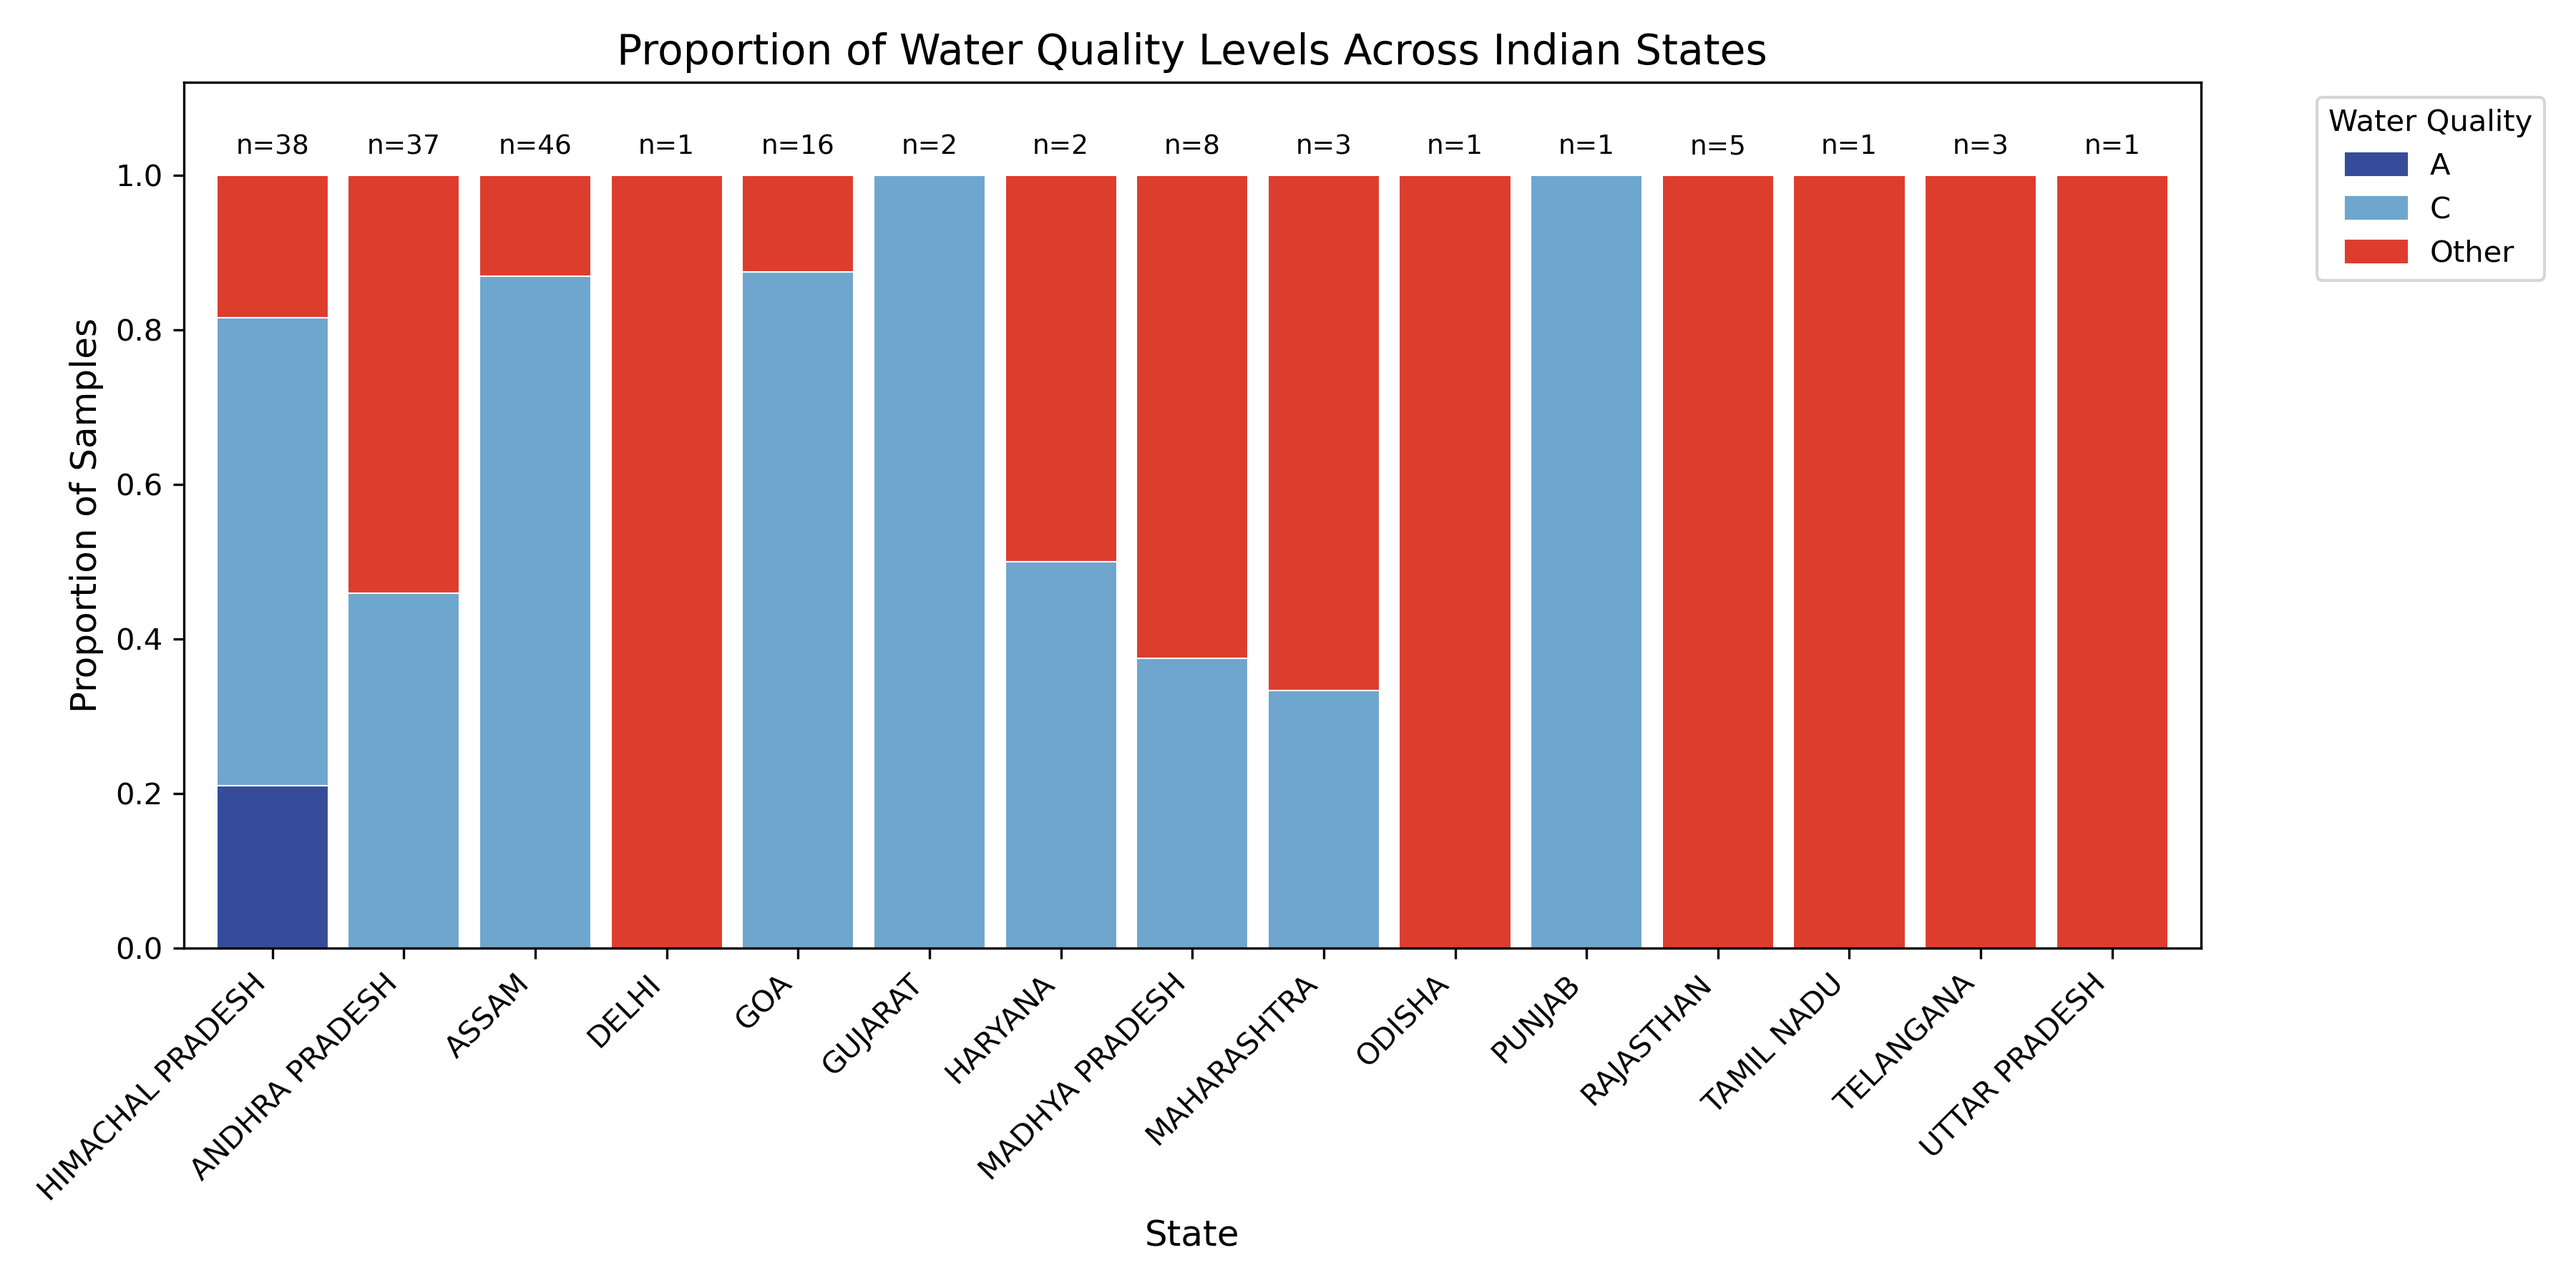
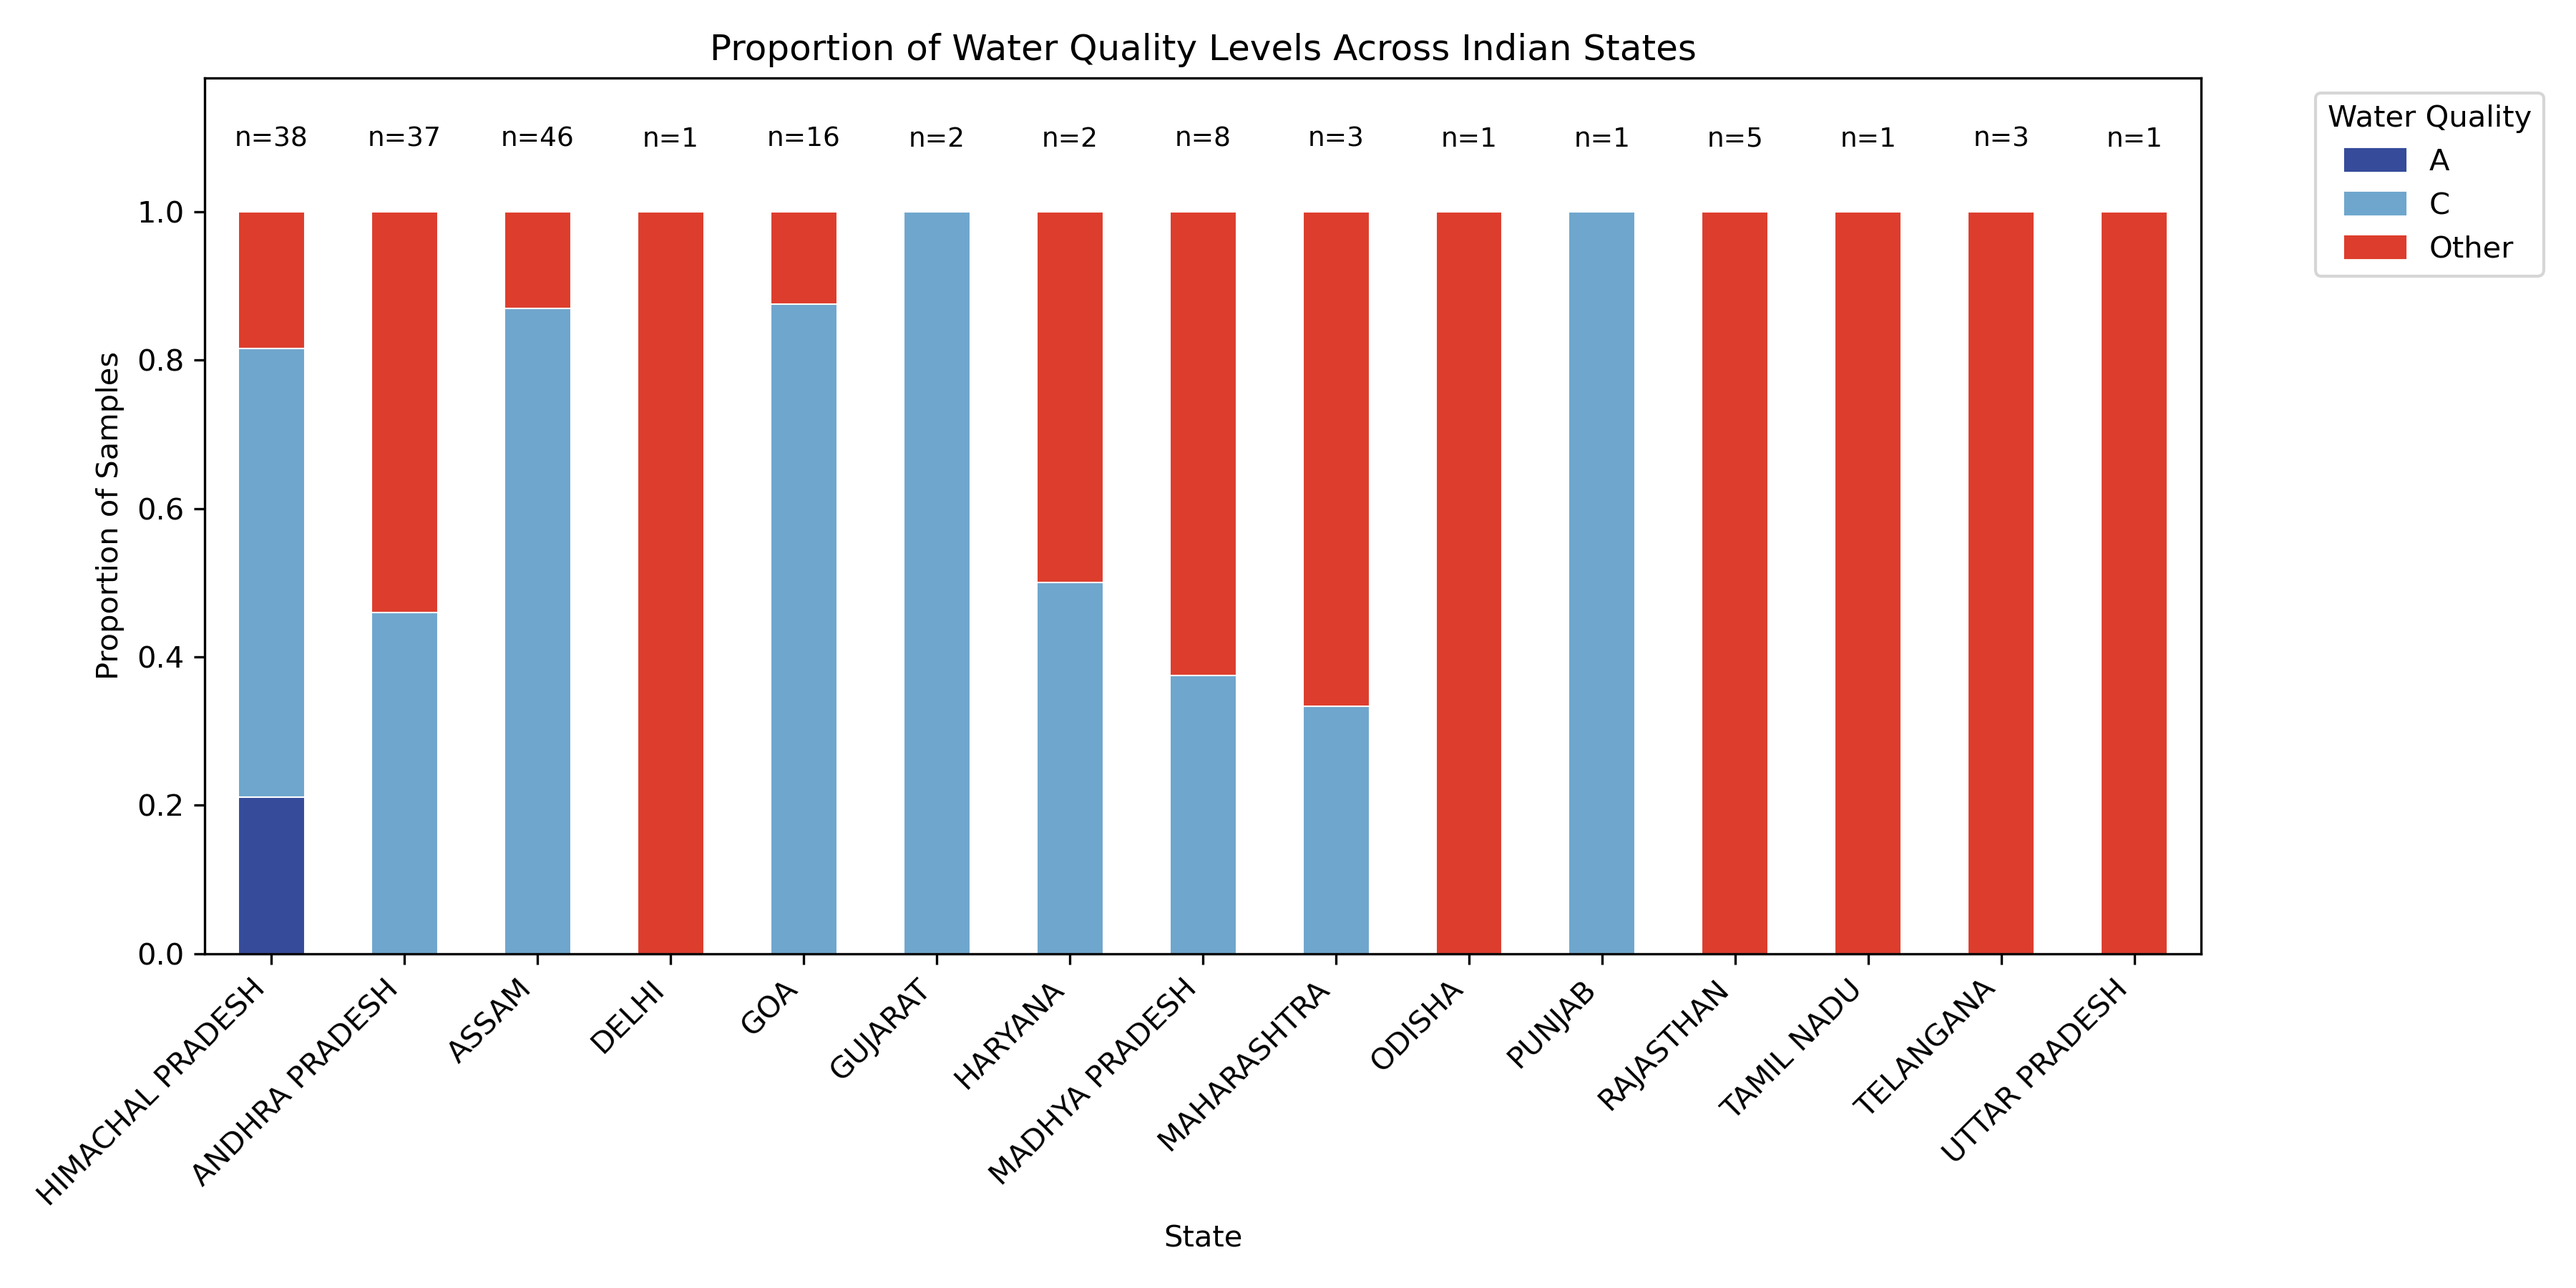
Update logic in data-exploration.py

diff --git a/data-exploration.py b/data-exploration.py
@@ -43,46 +43,33 @@ palette_custom = {
     0: "#DD3D2D"   # Red   → Class Other (Poor)
 }
 
-# small helper to annotate n above stacked bars
-def annotate_counts_above_bars(ax, n_series, y_offset=0.08, fmt="n={n}"):
-    """
-    Add n-labels clearly above stacked bars.
-    - y_offset: controls how far above 1.0 the labels appear (as a proportion)
-    - Expands ylim to keep labels inside the visible area
-    """
-    for i, (cat, n) in enumerate(n_series.items()):
-        ax.text(
-            i,
-            1 + y_offset,               # place well above top of bar
-            fmt.format(n=int(n)),
-            ha='center',
-            va='bottom',
-            fontsize=9
-        )
-    ax.set_ylim(0, 1 + y_offset + 0.1)  # adds generous headroom
+# -------------------------------------------------------------------
+# Helpers
+# -------------------------------------------------------------------
+def save_show(path):
+    plt.tight_layout()
+    plt.savefig(path, dpi=300)
+    plt.show()
+
+def annotate_counts(ax, counts, offset=0.08):
+    for i, n in enumerate(counts):
+        ax.text(i, 1 + offset, f"n={int(n)}", ha='center', va='bottom', fontsize=9)
+    ax.set_ylim(0, 1.1 + offset)
 
 # -------------------------------------------------------------------
-# Figure 1 – Distribution of Samples by Water Quality Class (Count)
+# Figure 1 – Distribution by Class
 # -------------------------------------------------------------------
 plt.figure(figsize=(6, 4))
+counts = df['water_quality'].value_counts().reindex(class_order).reset_index()
+counts.columns = ['water_quality', 'count']
 
-# Count samples per water quality class
-count_df = (
-    df['water_quality']
-    .value_counts()
-    .reindex(class_order)
-    .reset_index()
-)
-count_df.columns = ['water_quality', 'count']
-
-# Barplot of counts
 sns.barplot(
-    data=count_df,
+    data=counts,
     x='water_quality',
     y='count',
     hue='water_quality',
-    hue_order=class_order,
     order=class_order,
+    hue_order=class_order,
     palette=palette_custom,
     legend=False
 )
@@ -90,143 +77,100 @@ sns.barplot(
 plt.title('Distribution of Samples by Water Quality Class')
 plt.xlabel('Water Quality Class')
 plt.ylabel('Number of Samples')
-plt.xticks(ticks=range(len(class_order)), labels=x_tick_labels)
-plt.tight_layout()
-plt.savefig('figures/data-exploration/01_water_quality_distribution_count.png', dpi=300)
-plt.show()
+plt.xticks(range(len(class_order)), x_tick_labels)
+save_show('figures/data-exploration/01_water_quality_distribution_count.png')
+
 
 # -------------------------------------------------------------------
-# Figure 2 – Maximum Temperature by Water Quality
+# Figure 2 – Max Temperature by Class
 # -------------------------------------------------------------------
 plt.figure(figsize=(7, 5))
 sns.boxplot(
     data=df,
-    x='water_quality', y='Temperature (C) - Max',
+    x='water_quality',
+    y='Temperature (C) - Max',
+    order=class_order,
     hue='water_quality',
     hue_order=class_order,
-    order=class_order,
     palette=palette_custom,
     legend=False
 )
 plt.title('Temperature (°C) - Max by Water Quality Class')
 plt.xlabel('Water Quality Class')
 plt.ylabel('Temperature (°C) - Max')
-plt.xticks(ticks=range(len(class_order)), labels=x_tick_labels)
-plt.tight_layout()
-plt.savefig('figures/data-exploration/02_temp_max_vs_quality.png', dpi=300)
-plt.show()
+plt.xticks(range(len(class_order)), x_tick_labels)
+save_show('figures/data-exploration/02_temp_max_vs_quality.png')
+
 
 # -------------------------------------------------------------------
-# Figure 3 – Water Quality Distribution by Water Body Type (proportions)
-# Deterministic stacking: A (bottom) → C (middle) → Other (top)
+# Figure 3 – Proportion by Water Body Type
 # -------------------------------------------------------------------
-# Build readable 'water_body_type' from one-hot columns
-body_cols = [c for c in df.columns if c.startswith('Type Water Body_')]
+body_cols = [c for c in df if c.startswith('Type Water Body_')]
 df['water_body_type'] = df[body_cols].idxmax(axis=1).str.replace('Type Water Body_', '', regex=False)
 
-# counts & proportions per body type
 counts_bt = df.groupby(['water_body_type', 'water_quality']).size().unstack(fill_value=0)
-props_bt  = counts_bt.div(counts_bt.sum(axis=1), axis=0).fillna(0.0)
+props_bt = counts_bt.div(counts_bt.sum(axis=1), axis=0).reindex(columns=class_order, fill_value=0)
 
-# enforce deterministic class order and handle dtypes
-props_bt = props_bt.reindex(columns=class_order, fill_value=0.0)
-props_bt.columns = pd.CategoricalIndex(props_bt.columns, ordered=True, categories=class_order)
-props_bt = props_bt.sort_index(axis=1)
-
-# sort bars by share of Class A (optional for readability)
-order_bt = props_bt.sort_values(by=1, ascending=False).index if 1 in props_bt.columns else props_bt.index
-props_bt_sorted = props_bt.loc[order_bt]
+order_bt = props_bt.sort_values(by=1, ascending=False).index
 n_per_bt = counts_bt.loc[order_bt].sum(axis=1)
 
-ax = props_bt_sorted.plot(
-    kind='bar',
-    stacked=True,
-    figsize=(10, 6),
-    width=0.85,
-    edgecolor='white',
-    linewidth=0.5,
-    color=[palette_custom[c] for c in props_bt_sorted.columns]  # [1, 2, 0]
+ax = props_bt.loc[order_bt].plot(
+    kind='bar', stacked=True, figsize=(10, 6),
+    color=[palette_custom[c] for c in class_order], edgecolor='white', linewidth=0.5
 )
-
-plt.title('Proportion of Water Quality Classes by Water Body Type', fontsize=14)
-plt.xlabel('Water Body Type', fontsize=12)
-plt.ylabel('Proportion of Samples', fontsize=12)
+plt.title('Proportion of Water Quality Classes by Water Body Type')
+plt.xlabel('Water Body Type')
+plt.ylabel('Proportion of Samples')
 plt.xticks(rotation=45, ha='right')
-
-# annotate n above bars and add legend
-annotate_counts_above_bars(ax, n_per_bt, y_offset=0.02)
+annotate_counts(ax, n_per_bt)
 handles = [mpatches.Patch(color=palette_custom[c], label=class_labels[c]) for c in class_order]
 plt.legend(handles=handles, title='Water Quality', bbox_to_anchor=(1.05, 1), loc='upper left')
-
-plt.tight_layout()
-plt.savefig('figures/data-exploration/03_water_quality_vs_body_type.png', dpi=300)
-plt.show()
+save_show('figures/data-exploration/03_water_quality_vs_body_type.png')
 
 # -------------------------------------------------------------------
-# Figure 4 – pH Range by Water Quality
+# Figure 4 – pH Range by Class
 # -------------------------------------------------------------------
 df['pH_range'] = df['pH - Max'] - df['pH - Min']
 
 plt.figure(figsize=(7, 5))
 sns.boxplot(
     data=df,
-    x='water_quality', y='pH_range',
+    x='water_quality',
+    y='pH_range',
+    order=class_order,
     hue='water_quality',
     hue_order=class_order,
-    order=class_order,
     palette=palette_custom,
     legend=False
 )
 plt.title('pH Range (Max - Min) by Water Quality Class')
 plt.xlabel('Water Quality Class')
 plt.ylabel('pH Range (Max - Min)')
-plt.xticks(ticks=range(len(class_order)), labels=x_tick_labels)
-plt.tight_layout()
-plt.savefig('figures/data-exploration/04_ph_range_vs_quality.png', dpi=300)
-plt.show()
+plt.xticks(range(len(class_order)), x_tick_labels)
+save_show('figures/data-exploration/04_ph_range_vs_quality.png')
 
 
 # -------------------------------------------------------------------
-# Figure 5 – Proportion of Water Quality Levels Across States (proportions)
-# Deterministic stacking: A (bottom) → C (middle) → Other (top)
+# Figure 5 – Proportion by State
 # -------------------------------------------------------------------
-state_cols = [col for col in df.columns if col.startswith('State Name_')]
+state_cols = [c for c in df if c.startswith('State Name_')]
 df['state'] = df[state_cols].idxmax(axis=1).str.replace('State Name_', '', regex=False)
 
-# counts & proportions per state
 counts_st = df.groupby(['state', 'water_quality']).size().unstack(fill_value=0)
-props_st  = counts_st.div(counts_st.sum(axis=1), axis=0).fillna(0.0)
+props_st = counts_st.div(counts_st.sum(axis=1), axis=0).reindex(columns=class_order, fill_value=0)
 
-# enforce deterministic class order and handle dtypes
-props_st = props_st.reindex(columns=class_order, fill_value=0.0)
-props_st.columns = pd.CategoricalIndex(props_st.columns, ordered=True, categories=class_order)
-props_st = props_st.sort_index(axis=1)
-
-# sort states by share of Class A (optional for readability)
-order_st = props_st.sort_values(by=1, ascending=False).index if 1 in props_st.columns else props_st.index
-props_st_sorted = props_st.loc[order_st]
+order_st = props_st.sort_values(by=1, ascending=False).index
 n_per_st = counts_st.loc[order_st].sum(axis=1)
 
-ax = props_st_sorted.plot(
-    kind='bar',
-    stacked=True,
-    figsize=(12, 6),
-    width=0.85,
-    edgecolor='white',
-    linewidth=0.5,
-    color=[palette_custom[c] for c in props_st_sorted.columns]  # [1, 2, 0]
+ax = props_st.loc[order_st].plot(
+    kind='bar', stacked=True, figsize=(12, 6),
+    color=[palette_custom[c] for c in class_order], edgecolor='white', linewidth=0.5
 )
-
-plt.title('Proportion of Water Quality Levels Across Indian States', fontsize=14)
-plt.xlabel('State', fontsize=12)
-plt.ylabel('Proportion of Samples', fontsize=12)
+plt.title('Proportion of Water Quality Levels Across Indian States')
+plt.xlabel('State')
+plt.ylabel('Proportion of Samples')
 plt.xticks(rotation=45, ha='right')
-
-# annotate n above bars and add legend
-annotate_counts_above_bars(ax, n_per_st, y_offset=0.02)
+annotate_counts(ax, n_per_st)
 handles = [mpatches.Patch(color=palette_custom[c], label=class_labels[c]) for c in class_order]
 plt.legend(handles=handles, title='Water Quality', bbox_to_anchor=(1.05, 1), loc='upper left')
-
-plt.tight_layout()
-plt.savefig('figures/data-exploration/05_state_vs_quality_proportion.png', dpi=300)
-plt.show()
+save_show('figures/data-exploration/05_state_vs_quality_proportion.png')
